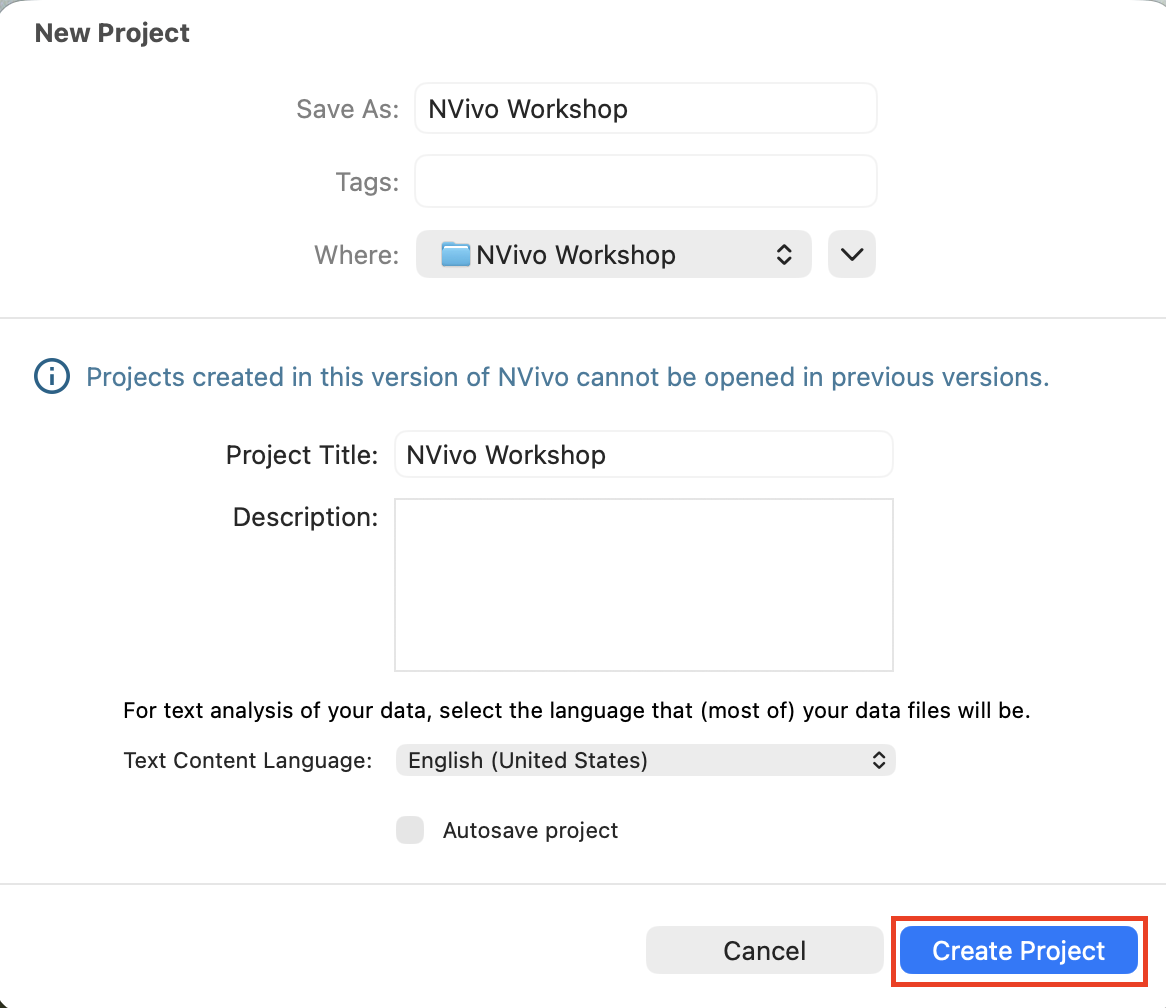
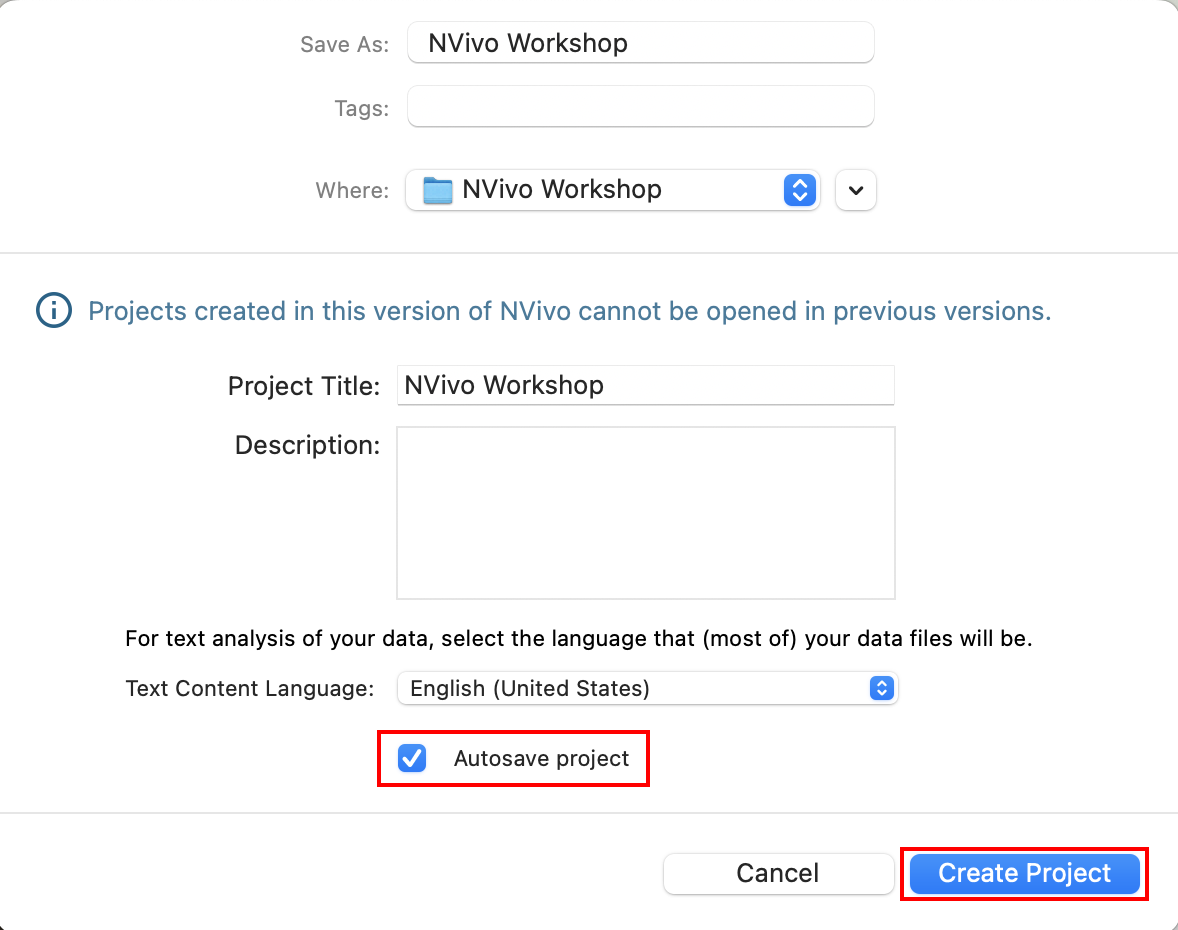
updated content and screenshots for the rest of the part 1 from working with codes to cases

diff --git a/docs/part_1_the_basics/working-with-codes.md b/docs/part_1_the_basics/working-with-codes.md
@@ -35,7 +35,7 @@ Working with Codes
 
     <img src="{{ '/assets/images/NVivo15_Mac_intro_048.png' | relative_url }}" alt='Red box around the sustainability code with the two codes nested under it.' title='' width='440' height='204' />
 
-7. You can use Sustainability as its own broader code now in coding, or just keep it as a heading in the hierarchy. If you **double click on Sustainability**, you should see an empty window pop up as there are no references coded to that Code right now.
+7. You can use Sustainability as its own broader code now in coding, or just keep it as a heading in the hierarchy. **Double click on Sustainability**. You should see an empty window pop up as there are no references coded to that code right now.
 
     <img src="{{ '/assets/images/NVivo15_Mac_intro_049.png' | relative_url }}" alt='The Sustainability code opened, with no references.' title='' width='2420' height='1032' />
 
@@ -60,8 +60,6 @@ Working with Codes
 
 13. You will see that the references have changed. There is grey text that isn’t coded, but comes directly before or after the coded text to give you more context for what you have coded. This is useful when examining small snippets of coded text. You can apply this Broad context (or explore the other options in the menu) any time you are presented with a list of references.
 
-    Please note that under the **Home** tab within the program, there is the option to select 'broad' under **Spread Coding**. This is *not* the same function. While selecting broad under **Coding Context** will display the context of your code, selecting broad under **Spread Coding** will instead add the surrounding context to your original code.
-
     <img src="{{ '/assets/images/NVIVO_MAC_Codes_13_0.png' | relative_url }}" alt='The Sustainability code opened, with grey text above and below each reference. One example outlined in red.' title='' width='595' height='369' />
 
 14. Close the window for now by clicking on **Close "Sustainability"** in the View drop\-down menu.
@@ -74,13 +72,16 @@ Working with Codes
 
 16. Double click on an interview that has some coded references.
 
-17. At the top of the selected file tab, from the **Coding Stripes drop\-down menu, select All.** Then go back into the **Coding Stripes drop\-down menu** again and **select Automatic Colors**.
+17. At the top of the selected file tab, from the **Coding Stripes drop\-down menu, select All.** Then go back into the **Coding Stripes drop\-down menu** again and **select Automatic Colors**. It will automatically select colours to differentiate the codes. You should see coloured stripes along the right to tell you what parts of the document have been coded and how.
 
-    <img src="{{ '/assets/images/NVivo15_Mac_intro_058.png' | relative_url }}" alt='Under the selected file, Coding stripes and All are selected. ' title='' width='519' height='408' /><img src="{{ '/assets/images/NVivo15_Mac_intro_059.png' | relative_url }}" alt='Automatic Colors option from the Coding Stripes menu is highlighted.' title='' width='687' height='546' />
-
-18. As you scroll through the document, you should see coloured stripes along the right to tell you what parts of the document have been coded and how. *Note that you can customize the colours if you'd like by holding down the Control key and clicking on each code, and then picking your colour of choice in the Color section. After you've set up all your colours, click anywhere on the text of the interview, select the Coding Stripes drop\-down menu, and select Item Colors instead of leaving Automatic Colors selected.*
-
+    <img src="{{ '/assets/images/NVivo15_Mac_intro_058.png' | relative_url }}" alt='Under the selected file, Coding stripes and All are selected. ' title='' width='519' height='408' />
+    <img src="{{ '/assets/images/NVivo15_Mac_intro_059.png' | relative_url }}" alt='Automatic Colors option from the Coding Stripes menu is highlighted.' title='' width='687' height='546' />
     <img src="{{ '/assets/images/NVIVO_MAC_Codes_18.png' | relative_url }}" alt='Red box around the coloured stripes along the right of the transcript text.' title='' width='702' height='462' />
+
+18. Note that you can customize the colours if you'd like by holding down the Control key and clicking on each code, and then picking your colour of choice in the Color section. After you've set up all your colours, click anywhere on the text of the interview, select the Coding Stripes drop\-down menu, and select Item Colors instead of leaving Automatic Colors selected.
+
+    <img src="{{ '/assets/images/NVIVO_MAC_Codes_18b.png' | relative_url }}" alt='Red box around the coloured stripes along the right of the transcript text.' title='' width='702' height='462' />
+    <img src="{{ '/assets/images/NVIVO_MAC_Codes_18c.png' | relative_url }}" alt='Red box around the coloured stripes along the right of the transcript text.' title='' width='702' height='462' />
 
 19. At the top of the selected file tab, from the **Highlight drop\-down menu, select Coding for All Codes or Cases.**
 

diff --git a/docs/part_1_the_basics/case-classification-and-cases.md b/docs/part_1_the_basics/case-classification-and-cases.md
@@ -19,11 +19,13 @@ If you have demographics or other important attributes that you want to incorpor
 
 You can manually create case classifications and cases, but often times, it is easier and more common to upload a spreadsheet with all the information for the cases. Let’s try that now.
 
-1. For our project, we have a file called Interviewees.csv. Open it up and take a look. It lists our interviewees and their attributes. Attributes in NVivo work best when they are categorical variables. NVivo would call this a classification sheet. Now close it and go back to NVivo.
+1. For our project, we have a file called Interviewees.csv. Open it up and take a look. It lists our interviewees and their attributes. Numeric attributes in NVivo work best in queries when they are transformed into categorical variables. You can see examples where experience and size of teams are ranges instead of a number. 
 
-    <img src="{{ '/assets/images/nvivo_workshop_mac_070.png' | relative_url }}" alt='Interviewees spreadsheet opened in Microsoft excel' title='' width='600' height='363' />
+NVivo would call this a classification sheet. Now close it and go back to NVivo.
 
-2. Go to the Import menu,and from the **Classification drop\-down menu, select Classification Sheet...** (You can also go to the **Home menu**, and from the **Case Classification drop\-down menu, select Import Classification Sheet)**.
+<img src="{{ '/assets/images/nvivo_workshop_mac_070.png' | relative_url }}" alt='Interviewees spreadsheet opened in Microsoft excel' title='' width='600' height='363' />
+
+2. Go to the **Import menu**,and from the **Classification drop\-down menu, select Classification Sheet...** (You can also go to the Home menu, and from the Case Classification drop\-down menu, select Import Classification Sheet).
 
     <img src="{{ '/assets/images/ScreenshotImportClassificationSheet.png' | relative_url }}" alt='The import menu is highlighted, along with the Classifications submenu and Classification sheet option.' title='' width='1312' height='308' />
 
@@ -43,7 +45,7 @@ You can manually create case classifications and cases, but often times, it is e
 
     <img src="{{ '/assets/images/NVIVO_MAC_Case%20Classification_6.png' | relative_url }}" alt='Import Classification Window with Import highlighted.' title='' width='617' height='456' />
 
-7. **Click on Classification Sheet** at the top of that window to see something that resembles the csv file we imported. Then close it.
+7. **Click on Classification Sheet** at the top of that window to see something that resembles the csv file we imported. If it looks good, then close it.
 
     <img src="{{ '/assets/images/NVIVO_MAC_Case%20Classification_7.png' | relative_url }}" alt='Imported classification sheet opened in NVivo.' title='' width='792' height='363' />
 

diff --git a/docs/part_1_the_basics/creating-a-new-project.md b/docs/part_1_the_basics/creating-a-new-project.md
@@ -30,8 +30,8 @@ Creating a New Project
 
     <img src="{{ '/assets/images/NVivo15_Mac_intro_003.png' | relative_url }}" alt='NVIVO pop-up selecting NVivo Workshop as the location for the file. ' title='' width='1174' height='1014' />
 
-5. Finally **select Create** to create your new project.
+5. You may also want to **select Autosave project** to have NVivo save your project automatically every 5 minutes. Unlike with the Windows version, this does not affect your ability to Undo a change. Finally **select Create** to create your new project.
 
-    <img src="{{ '/assets/images/NVivo15_Mac_intro_004.png' | relative_url }}" alt='NVivo Pop up with Create Project selected' title='' width='1166' height='1008' />
+    <img src="{{ '/assets/images/NVivo15_Mac_intro_004.png' | relative_url }}" alt='NVivo Pop up with Autosave and Create Project selected' title='' width='1166' height='1008' />
 
 **Technique**: [Qualitative Data Analysis](https://mdlutoronto.github.io/tutorials-search/?technique=Qualitative+Data+Analysis) \| **Tools**: [NVivo](https://mdlutoronto.github.io/tutorials-search/?tool=NVivo) 

diff --git a/docs/part_1_the_basics/creating-notes.md b/docs/part_1_the_basics/creating-notes.md
@@ -16,7 +16,7 @@ grand_parent: Introduction to NVivo 15 for Mac
 Creating Notes
 --------------
 
-1. Let’s move on to another use of NVivo. You can create different types of notes to capture your thoughts on some text in a file, a file itself, or the project as a whole. For example, if you want to make a note about something that has come up in the text, you would use annotations. **Open up one of the interview files** (if you don’t have one open already), **highlight some text,** **hold down the Control key and click on it,** and **select New Annotation**.
+1. Let’s move on to another use of NVivo. You can create different types of notes to capture your thoughts on some text in a file, a file itself, or the project as a whole. Let's make a note about something that has come up in the text. **Open up one of the interview files** (if you don’t have one open already), **highlight some text,** **hold down the Control key and click on it,** and **select New Annotation**.
 
     <img src="{{ '/assets/images/NVivo15_Mac_intro_063.png' | relative_url }}" alt='Some interview text selected, with an open context menu and a red box around New Annotation.' title='' width='603' height='638' />
 
@@ -40,7 +40,7 @@ Creating Notes
 
     <img src="{{ '/assets/images/NVivo15_Mac_intro_068.png' | relative_url }}" alt='Red box around the linked Memo icon in the interview folder.' title='' width='577' height='283' />
 
-7. To view the memo link, **hold down the Control key and click on the file again, select Memo Link** and then **Open Linked Memo**.    
+7. To view the memo link, **hold down the Control key and click on the file again, select Memo Link** and then **Open Linked Memo**. When you're done looking at the memo, close the tab.   
     <img src="{{ '/assets/images/NVivo15_Mac_intro_069.png' | relative_url }}" alt='Context menu for an interview with the Memo link side pop-up menu open and Open Linked Memo outlined in red.' title='' width='479' height='576' />
 
 8. To see annotations you have created all in one place, from the left menu, **under Notes, click on Annotations**.

diff --git a/docs/part_1_the_basics/creating-codes-and-coding.md b/docs/part_1_the_basics/creating-codes-and-coding.md
@@ -43,7 +43,7 @@ If you have already decided upon codes ahead of time (following a deductive appr
 
     <img src="{{ '/assets/images/NVivo15_Mac_intro_025.png' | relative_url }}" alt='Under the maintenance code menu, the general settings are selected' title='' width='1820' height='1148' />
 
-7. Now that we have a couple codes, let’s use them to do some coding. To open up one of our imported files, from the left menu, **go to the Interviews folder under Files and double click on the first interview transcript** to open it in NVivo.
+7. Now that we have a couple codes, let’s use them to do some coding. To open up one of our imported files, from the left menu, **go to the Interviews folder under Files and double click on the interview transcript called "Data Center Interview Transcript dec4_2014 2_02pm"** to open it in NVivo.
 
     <img src="{{ '/assets/images/NVivo15_Mac_intro_026.png' | relative_url }}" alt='Under interviews, the first interview is selected' title='' width='2216' height='946' />
 